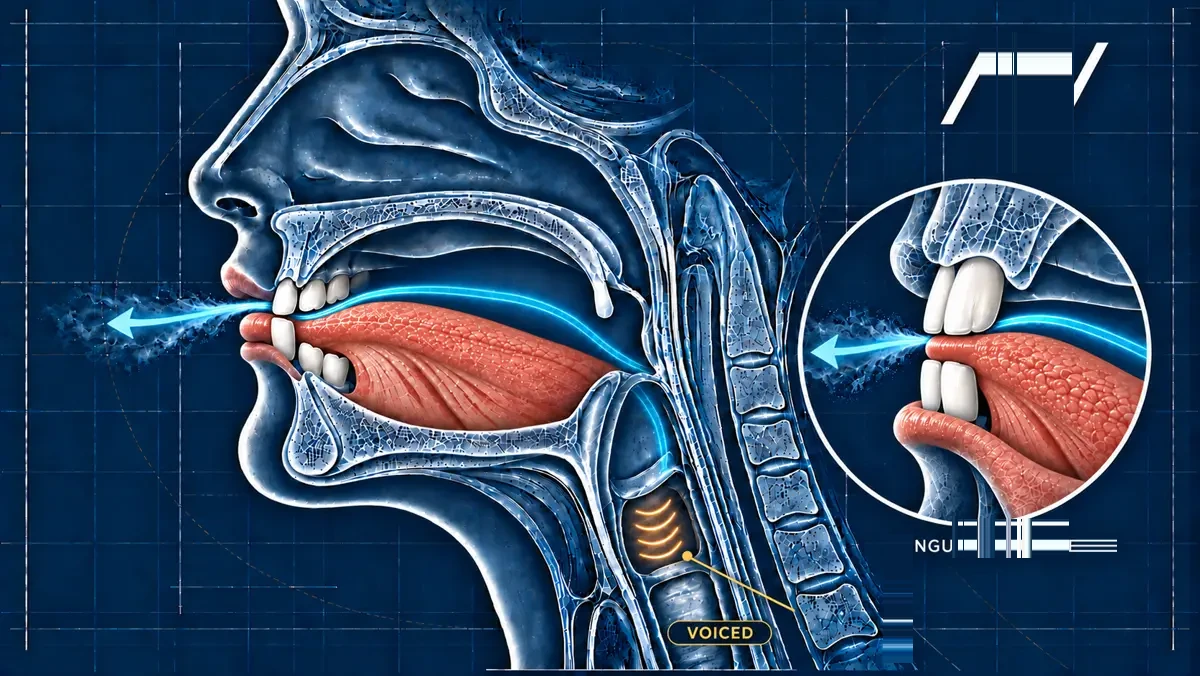
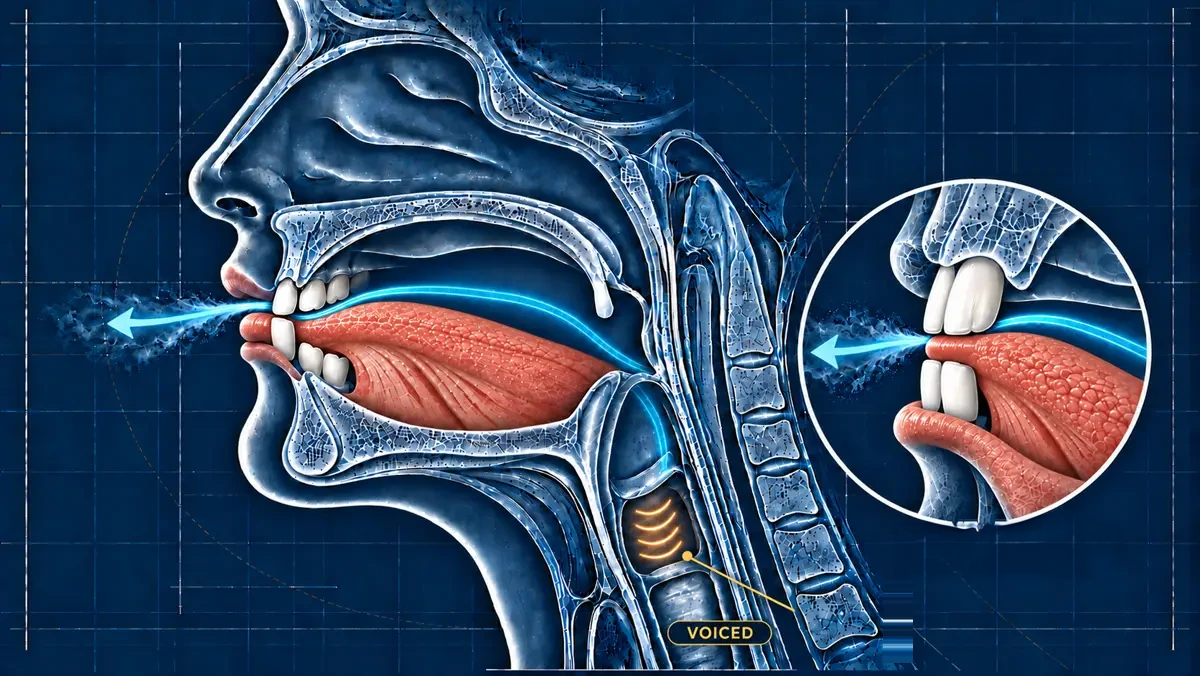
a

Changed region(s): [[0.7708, 0.7456, 0.925, 0.8388], [0.7708, 0.0621, 0.925, 0.1864]]

diff --git a/styles.css b/styles.css
@@ -173,10 +173,14 @@ body:has(.pageNav:not([hidden])) main{padding-top:20px}
 .soundButton:active,.soundButton.isPlaying{transform:translateY(2px)}
 
 .visualGrid{display:grid;grid-template-columns:1fr 1fr;gap:16px;align-items:stretch}
+.visualGrid.hasSequence{align-items:start}
+.visualGrid.hasSequence .visualCard{height:auto}
 .visualCard{display:flex;flex-direction:column;background:var(--card);border:1px solid var(--line);border-radius:18px;overflow:hidden;min-width:0;height:100%;box-shadow:var(--shadow)}
 .visualCard h2{margin:0;padding:16px 18px 0;font-size:.95rem;font-weight:600;letter-spacing:.02em}
 .visualFrame{height:260px;display:grid;place-items:center;overflow:hidden;background:#f3f6fb}
 .visualFrame canvas{display:block;width:100%;height:100%;object-fit:contain}
+.visualFrame.isSequence{height:auto;display:block}
+.visualFrame.isSequence canvas{width:100%;height:auto;object-fit:contain}
 .visualCard p{margin:0;padding:10px 18px 16px;color:var(--muted);font-size:.86rem}
 .explainer{margin-top:20px;padding:24px}
 .explainer h2{margin:18px 0 6px;color:var(--blue);font-size:1rem;font-weight:600;letter-spacing:.02em}
